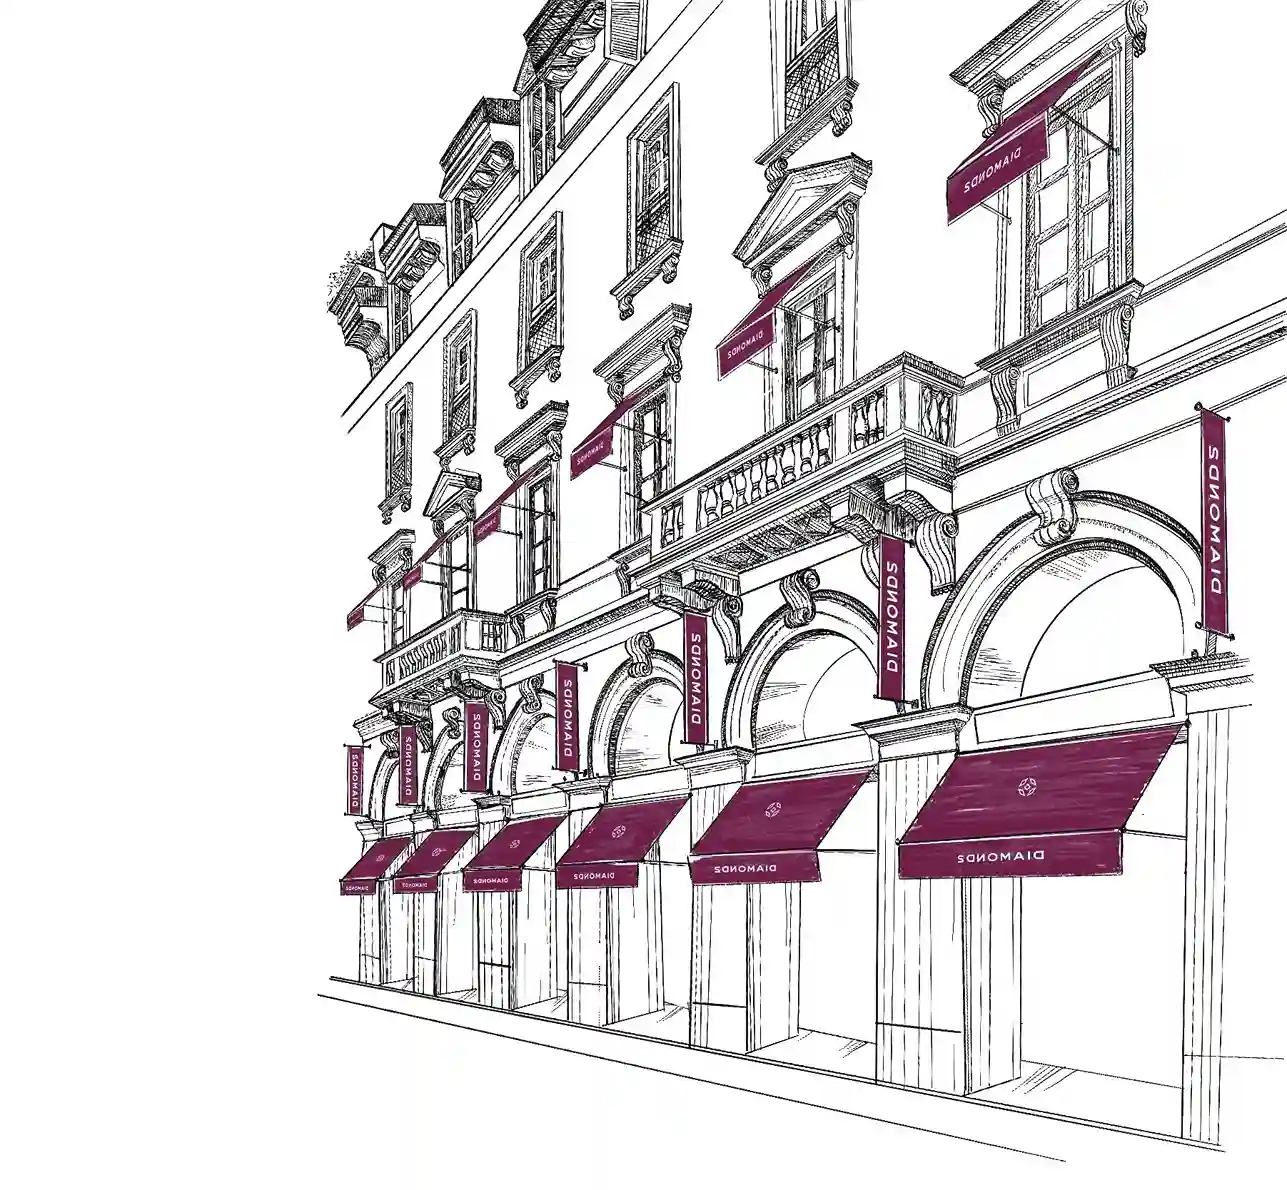
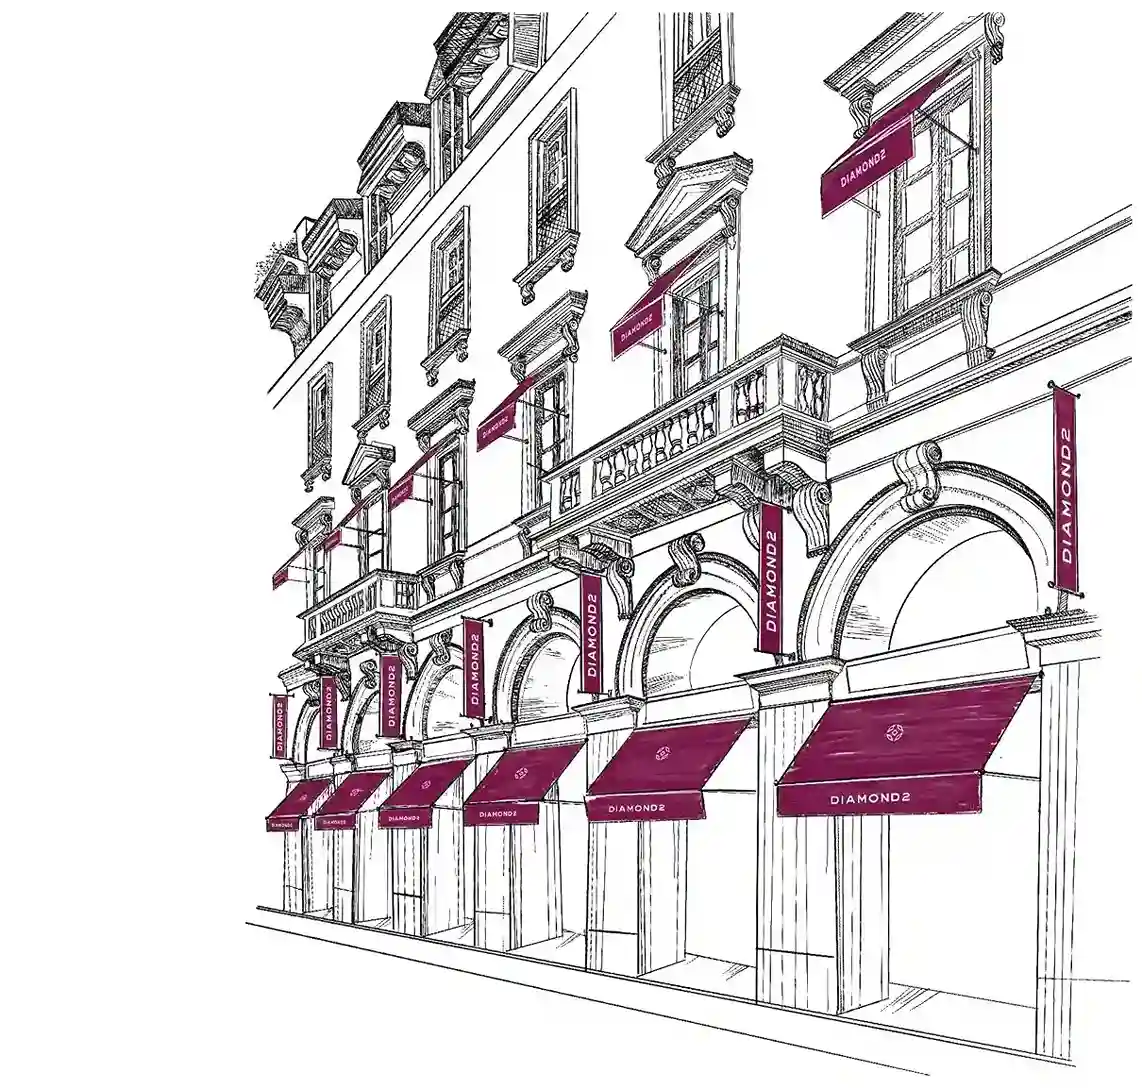
added new flip image and comming soon slide added

diff --git a/src/components/Scroll.jsx b/src/components/Scroll.jsx
@@ -86,7 +86,7 @@ export default function Scroll() {
           id="slide1"
           className="w-full h-full  overflow-hidden z-[1] top-0 flex items-center justify-center"
         >
-          <div className="w-full h-full bg-[#0000003f] absolute"></div>
+          <div className="w-full h-full z-[1] bg-[#0000003f] absolute"></div>
           <div className=" txt1  absolute flex flex-col gap-3 md:gap-5 text-white z-[1] left-[5%] bottom-[15%]  ">
             <p className="  text-3xl md:text-5xl  spectral-light">
               Diamond2 Flagship Store
@@ -144,6 +144,9 @@ export default function Scroll() {
             alt=""
           />
         </div>
+      </div>
+      <div className="w-full">
+        <img className="w-full object-contain h-fit" src="/images/stores/Coming Soon_11zon.webp" alt="" />
       </div>
     </div>
   );

diff --git a/src/components/About.jsx b/src/components/About.jsx
@@ -35,7 +35,7 @@ const About = () => {
         .fromTo(
           ".sketch_image_2",
           { x: 200, opacity: 0 },
-          { x: 0, opacity: 1 },
+          { x: 20, opacity: 1 },
           "start"
         )
         .fromTo(
